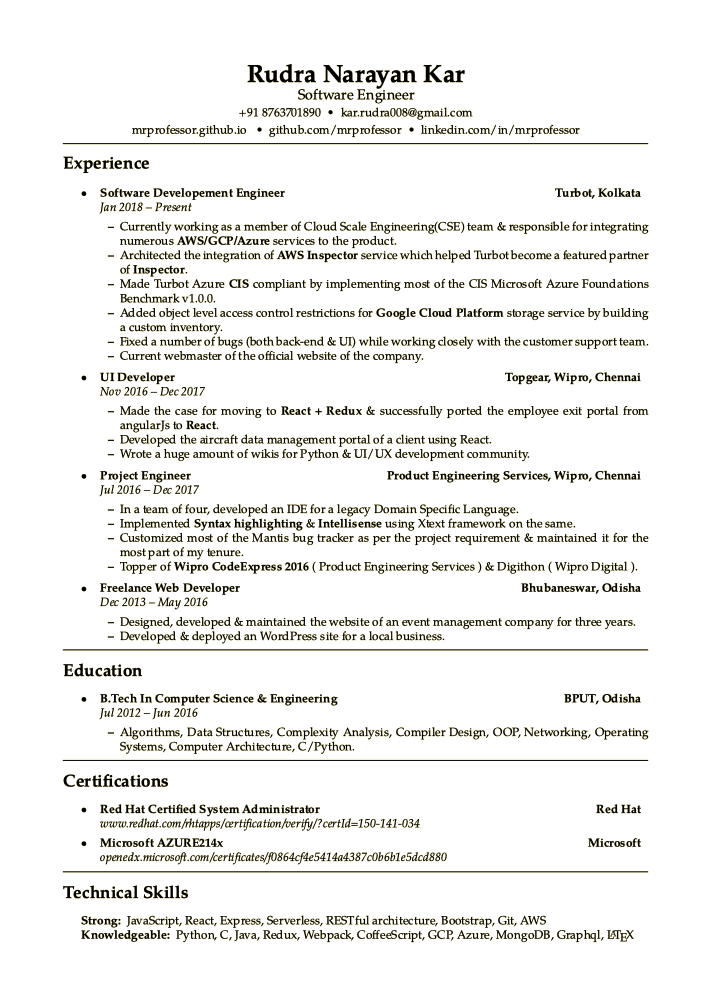
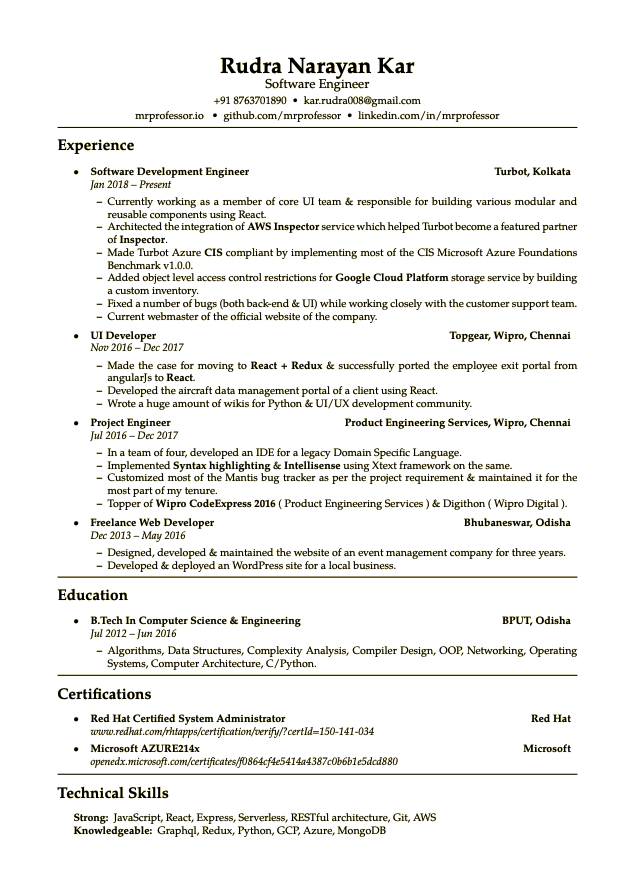
Updated resume

Changed region(s): [[0.0898, 0.0625, 0.9276, 0.9375]]

diff --git a/main.tex b/main.tex
@@ -9,13 +9,16 @@
 \usepackage{hyperref}
 \usepackage{setspace}
 \usepackage{enumitem}
+\usepackage{fontawesome}
 
 % Font stuff %
 
 \usepackage[utf8]{inputenc}
 \usepackage[T1]{fontenc}
 \pagestyle{empty}
-
+% fontawesome external link
+% {\textsuperscript{\faExternalLink}}
+    
 % \RequirePackage[quiet]{fontspec}
 % \RequirePackage[math-style=TeX]{unicode-math}
 
@@ -72,7 +75,7 @@
 +91 8763701890\ \ \textbullet
 \ \ kar.rudra008@gmail.com 
 
-\href{https://mrprofessor.github.io}{mrprofessor.github.io} \ \ \textbullet
+\href{https://mrprofessor.io}{mrprofessor.io} \ \ \textbullet
 \ \ \href{https://github.com/mrprofessor}{github.com/mrprofessor} \ \textbullet
 \ \ \href{https://linkedin.com/in/mrprofessor}{linkedin.com/in/mrprofessor}
 \\
@@ -95,7 +98,7 @@
 
 	\item
 	\headerrow
-		{\textbf{Software Developement Engineer}}
+		{\textbf{Software Development Engineer}}
 		{\href{https://www.turbot.com/}{\textbf{Turbot, Kolkata}}}
 	\\
 	\headerrow
@@ -219,9 +222,9 @@
 \hyphenpenalty=1000
 \begin{description*}
 	\item[Strong:]
-	JavaScript, React, Express, Serverless, RESTful architecture, Bootstrap, Git, AWS
+	JavaScript, React, Express, Serverless, RESTful architecture, Git, AWS
 	\item[Knowledgeable:]
-	Graphql, Redux, Python, C, GraphQL, Webpack, CoffeeScript, GCP, Azure, MongoDB
+	Graphql, Redux, Python, GCP, Azure, MongoDB
 \end{description*}
 \end{indentsection}
 
